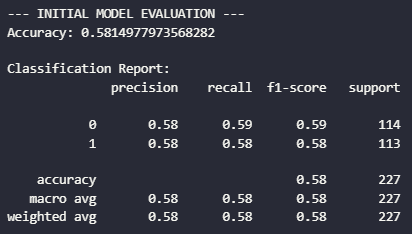
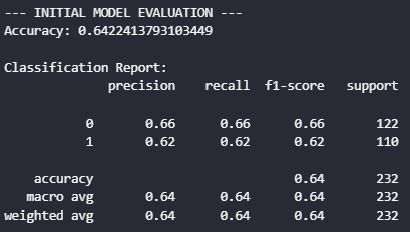
updated readme file

diff --git a/frontend/app.py b/frontend/app.py
@@ -64,7 +64,7 @@ if page == "Home":
         image_table = Image.open('img/epl_match_app_bottom.png')
         st.image(image_table)
 
-        st.write("_**Inputting all the features from the match, our application favors Newcastle winning at 54.18%**_")
+        st.write("_**Inputting all the features from the match, our application favored Newcastle winning at 55.72%**_")
 
     st.markdown("#### _**What Shapes Goal Scoring Predictions?**_")
     st.write("Factors like a player's role, shooting position, team they represent, historical trends, or even the minute in a match all play a part " \
@@ -77,7 +77,7 @@ if page == "Home":
         st.image(image_rice_goal)
         st.write("_**Arsenal's Declan Rice, scored this goal on March 9th against Manchester United " \
         "during a regular season match. The goal was scored on the 73rd minute during a regular play. " \
-        "Adjusting the features on our application, we see that the probability of scoring was about 54.36%.**_")
+        "Adjusting the features on our application, we found the probability of scoring at 53.67%.**_")
 
     with col2:
         image_app_top = Image.open('img/epl_match_ars_goal_app_top.png')

diff --git a/README.md b/README.md
@@ -39,16 +39,17 @@ The dataset gathered had multiple lines of data, but the actual model was only f
 
 | **Name**           | **Non-Null Values** | **Type**   | **Description**                                               |
 |--------------------|---------------------|------------|---------------------------------------------------------------|
-| `position_away`    | 1133 non-null       | float64    | The current standing of the away team                         |
-| `position_home`    | 1133 non-null       | float64    | The current standing of the home team                         |
-| `winner_home`      | 1133 non-null       | int32      | If the home team won that match                               |
-| `match_temperature`  | 1133 non-null       | float64    | The temperature recorded that match                         |
-| `wind_speed`       | 1133 non-null       | float64    | The speed of winds                                            |
-| `humidity`         | 1133 non-null       | float64    | Percentage of humidity                                        |
-| `pressure`         | 1133 non-null       | float64    | The amount of atmospheric pressure                            |
-| `clouds`           | 1133 non-null       | float64    | Percentage of cloud coverage                                  |
-| `name`             | 1133 non-null       | object     | The name of the pitch the match was played on                |
-| `time_of_day`      | 1133 non-null       | object     | Earlier or later games (before or after 2:30pm)              |
+| `position_away`    | 1160 non-null       | float64    | The current standing of the away team                         |
+| `position_home`    | 1160 non-null       | float64    | The current standing of the home team                         |
+| `winner_home`      | 1160 non-null       | int32      | If the home team won that match                               |
+| `match_temperature`| 1160 non-null       | float64    | The temperature recorded that match                         |
+| `wind_speed`       | 1160 non-null       | float64    | The speed of winds                                            |
+| `humidity`         | 1160 non-null       | float64    | Percentage of humidity                                        |
+| `pressure`         | 1160 non-null       | float64    | The amount of atmospheric pressure                            |
+| `clouds`           | 1160 non-null       | float64    | Percentage of cloud coverage                                  |
+| `team_name_home`   | 1160 non-null       | object     | The name of the home team                                     |
+| `team_name_away`   | 1160 non-null       | object     | The name of the away team               |
+| `time_of_day`      | 1160 non-null       | object     | Earlier or later games (before or after 3:00pm)              |
 
 
 ## Statsbomb
@@ -82,7 +83,6 @@ The dataset gathered had multiple lines of data, but the actual model was only f
 9. Time of day column was created to divide games that were before or after 2:30pm. 
 10. Null values for position at home and winner at home were dropped. 
 11. Winner at home data type was changed to integer. 
-12. Rows where stadiums value coutns were less than were also removed.
 
 ## Statsbombpy
 1. The dataset gathered was from the statsbombby open data for the English Premier League 2015/2016 season.
@@ -102,12 +102,14 @@ The dataset gathered had multiple lines of data, but the actual model was only f
 #### Dividing the dataset into X and y:
 - **Features (`X` and `y`)**:
     ```python
-    X = team_shortened[['position_away', 'position_home', 'match_temperature', 'wind_speed', 'humidity', 'pressure', 'clouds', 'name', 'time_of_day']]
+    X = team_shortened[['position_away', 'position_home', 'match_temperature', 'wind_speed', 'humidity', 'pressure', 'clouds', 'team_name_home','team_name_away', 'time_of_day']]
     y = team_shortened['winner_home']
 
     X_train, X_test, y_train, y_test = train_test_split(
         X, y, test_size=0.2
     )
+    X_test.shape
+
     ```
 #### Constructing a pipeline for ease of cleaning and transformation:
 - **Pipeline**:
@@ -115,7 +117,7 @@ The dataset gathered had multiple lines of data, but the actual model was only f
     # First, let's pick out which columns are numeric vs. categorical
     numeric_features = ['match_temperature', 'wind_speed', 'humidity', 'pressure', 'clouds']
 
-    categorical_features = ['position_away', 'position_home', 'name', 'time_of_day']
+    categorical_features = ['team_name_home', 'team_name_away', 'position_away', 'position_home', 'time_of_day']
 
     numeric_transformer = Pipeline([
         ("imputer", SimpleImputer(strategy="mean")),   # Fill missing with mean
@@ -172,8 +174,9 @@ The dataset gathered had multiple lines of data, but the actual model was only f
     print("MSE scores for each fold:", mse_scores)
     print("Average MSE:", np.mean(mse_scores))
     ```
-    #### MSE scores for each fold: [0.36971831 0.33922261 0.39929329 0.34275618]
-    #### Average MSE: 0.36274759866620215
+    #### MSE scores for each fold: [0.36896552 0.34827586 0.41034483 0.36896552]
+    #### Average MSE: 0.37413793103448273
+
 
 ## Statsbombpy
 ### English Premier League Goal Scoring: 
@@ -259,20 +262,20 @@ The dataset gathered had multiple lines of data, but the actual model was only f
 ![alt text](frontend/img/epl_match_table_top.png) ![alt text](frontend/img/epl_match_table_bottom.png)
 ![alt text](frontend/img/epl_match_hum_press.png)
 #### Current Weather Updates at 1:30pm
-* Home Stadium: St. James' Park
+* Home Stadium: St. James' Park, Newcastle's home stadium
 * Temperature: 14C
 * Wind Speeds: 24km/hr --> 6.67m/s
 * Humidty: 41%
 * Pressure: 1008.13mb
 * Cloud Coverage: Seems clear ~ 0%
-### The two images above were captured around 1:30pm (EST) on April 16th, 1 hour before the start of the match. Newcastle United is hosting Crystal Palace at their home stadium. Newcastle United is ranked 4th in the table, while Crystal Palace is ranked 12th. The probability online shows in favor of Newcastle United winning at 58%. The app below with defined parameters as close as possible show us the probability of Newcastle winning at 54.18%. 
+### The two images above were captured around 1:30pm (EST) on April 16th, 1 hour before the start of the match. Newcastle United is hosting Crystal Palace at their home stadium. Newcastle United is ranked 4th in the table, while Crystal Palace is ranked 12th. The probability online shows in favor of Newcastle United winning at 58%. The app below with defined parameters as close as possible show us the probability of Newcastle winning at 55.72%. 
 
 ![alt text](frontend/img/epl_match_app_top.png) ![alt text](frontend/img/epl_match_app_bottom.png)
 
 ## English Premier League Goal Scoring Predictions:
 ![alt text](frontend/img/epl_match_ars_goal.png)
 
-### This goal was scored by Arsenal's Declan Rice on March 9th against Manchester United during a regular premier league season match. The goal was scored between the 73rd and 74th minute, by Declan Rice (midfielder) during a regular play. Adjusting the parameters below to match this play as close as possible, we see that the probability of scoring was about 54.36% for this shot. 
+### This goal was scored by Arsenal's Declan Rice on March 9th against Manchester United during a regular premier league season match. The goal was scored between the 73rd and 74th minute, by Declan Rice (midfielder) during a regular play. Adjusting the parameters below to match this play as close as possible, we see that the probability of scoring was about 53.67% for this shot. 
 
 ![alt text](frontend/img/epl_match_ars_goal_app_top.png) ![alt text](frontend/img/epl_match_ars_goal_app_bottom.png)
 
